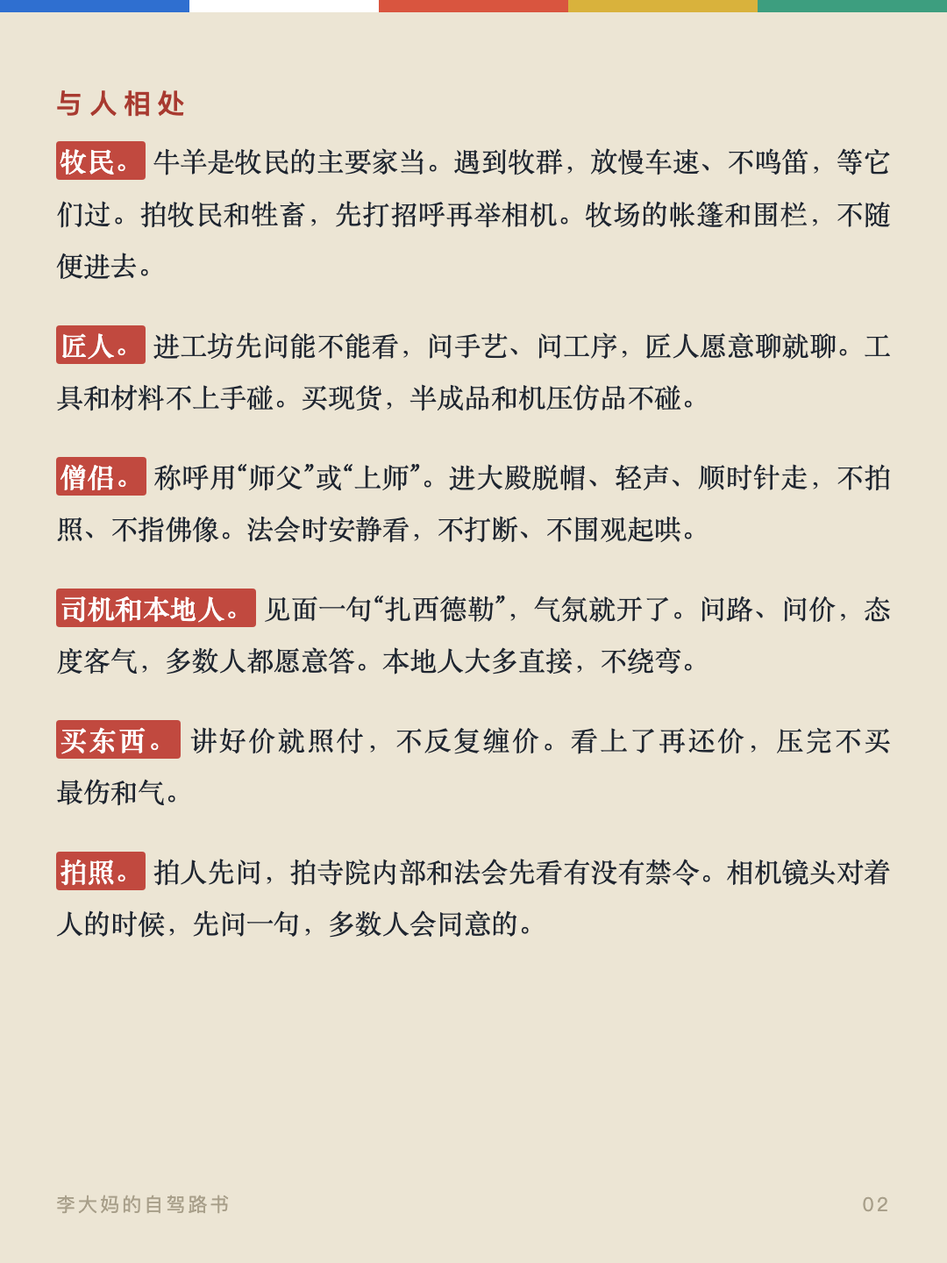
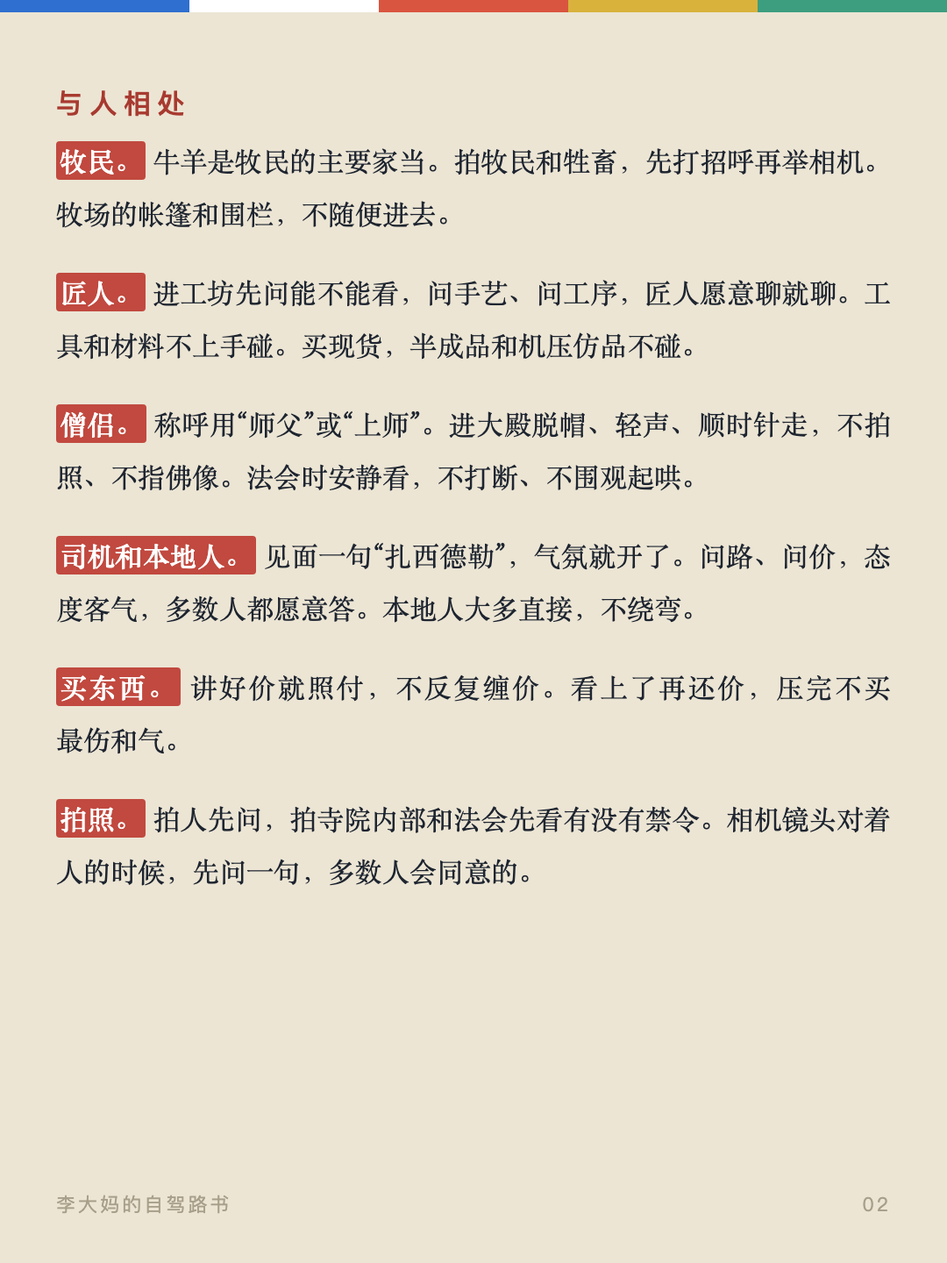
删财物句；牦牛羊让路做法并入驾驶学，牧民块去重

diff --git a/cards.html b/cards.html
@@ -125,7 +125,7 @@
 
 <div class="card" id="card1"><div class="flag" aria-hidden="true"><span style="background:var(--flag-blue)"></span><span style="background:var(--flag-white)"></span><span style="background:var(--flag-red)"></span><span style="background:var(--flag-yellow)"></span><span style="background:var(--flag-green)"></span></div><div class="card__inner"><div class="card__kicker">李大妈的自驾路书</div><h1><strong>川西自驾行前笔记</strong></h1><p class="card__intro">川西自驾是一门功课：海拔怎么分层、山河怎么走向、车怎么开山路、信仰怎么分辨、手艺在哪儿、房子为什么长这样。</p><p class="card__meta">我习惯在行前把零碎信息整理成笔记，当作出行线索。笔记更新于2026年8月28日。天气、封路、营业时间等信息随季节变化，出发前应再次查询官方信息。</p><h2>开篇　七章速览</h2><ul class="card__keys"><li><span>海拔决定秩序</span><strong>一　高原的秩序</strong></li> <li><span>山河决定地图</span><strong>二　山河的地图</strong></li> <li><span>车是腿，慢是快</span><strong>三　路上的驾驶学</strong></li> <li><span>认得前兆，知道方向</span><strong>四　险情的应对</strong></li> <li><span>看墙色分辨教派</span><strong>五　信仰的世界</strong></li> <li><span>手艺是还在运转的产业</span><strong>六　手艺的文明</strong></li> <li><span>材料决定房子</span><strong>七　建筑的方言</strong></li></ul><div class="card__foot"><span></span><span class="foot-flag" aria-hidden="true"><span style="background:var(--flag-blue)"></span><span style="background:var(--flag-white)"></span><span style="background:var(--flag-red)"></span><span style="background:var(--flag-yellow)"></span><span style="background:var(--flag-green)"></span></span><span>01</span></div></div></div>
 
-<div class="card" id="card2"><div class="flag" aria-hidden="true"><span style="background:var(--flag-blue)"></span><span style="background:var(--flag-white)"></span><span style="background:var(--flag-red)"></span><span style="background:var(--flag-yellow)"></span><span style="background:var(--flag-green)"></span></div><div class="card__inner"><h3>与人相处</h3><p><strong>牧民。</strong> 牛羊是牧民的主要家当。遇到牧群，放慢车速、不鸣笛，等它们过。拍牧民和牲畜，先打招呼再举相机。牧场的帐篷和围栏，不随便进去。</p><p><strong>匠人。</strong> 进工坊先问能不能看，问手艺、问工序，匠人愿意聊就聊。工具和材料不上手碰。买现货，半成品和机压仿品不碰。</p><p><strong>僧侣。</strong> 称呼用“师父”或“上师”。进大殿脱帽、轻声、顺时针走，不拍照、不指佛像。法会时安静看，不打断、不围观起哄。</p><p><strong>司机和本地人。</strong> 见面一句“扎西德勒”，气氛就开了。问路、问价，态度客气，多数人都愿意答。本地人大多直接，不绕弯。</p><p><strong>买东西。</strong> 讲好价就照付，不反复缠价。看上了再还价，压完不买<span class="nowrap">最伤和气。</span></p><p><strong>拍照。</strong> 拍人先问，拍寺院内部和法会先看有没有禁令。相机镜头对着人的时候，先问一句，多数人会同意的。</p><div class="card__foot"><span>李大妈的自驾路书</span><span>02</span></div></div></div>
+<div class="card" id="card2"><div class="flag" aria-hidden="true"><span style="background:var(--flag-blue)"></span><span style="background:var(--flag-white)"></span><span style="background:var(--flag-red)"></span><span style="background:var(--flag-yellow)"></span><span style="background:var(--flag-green)"></span></div><div class="card__inner"><h3>与人相处</h3><p><strong>牧民。</strong> 牛羊是牧民的主要家当。拍牧民和牲畜，先打招呼再举相机。牧场的帐篷和围栏，不随便进去。</p><p><strong>匠人。</strong> 进工坊先问能不能看，问手艺、问工序，匠人愿意聊就聊。工具和材料不上手碰。买现货，半成品和机压仿品不碰。</p><p><strong>僧侣。</strong> 称呼用“师父”或“上师”。进大殿脱帽、轻声、顺时针走，不拍照、不指佛像。法会时安静看，不打断、不围观起哄。</p><p><strong>司机和本地人。</strong> 见面一句“扎西德勒”，气氛就开了。问路、问价，态度客气，多数人都愿意答。本地人大多直接，不绕弯。</p><p><strong>买东西。</strong> 讲好价就照付，不反复缠价。看上了再还价，压完不买<span class="nowrap">最伤和气。</span></p><p><strong>拍照。</strong> 拍人先问，拍寺院内部和法会先看有没有禁令。相机镜头对着人的时候，先问一句，多数人会同意的。</p><div class="card__foot"><span>李大妈的自驾路书</span><span>02</span></div></div></div>
 
 <div class="card" id="card3"><div class="flag" aria-hidden="true"><span style="background:var(--flag-blue)"></span><span style="background:var(--flag-white)"></span><span style="background:var(--flag-red)"></span><span style="background:var(--flag-yellow)"></span><span style="background:var(--flag-green)"></span></div><div class="card__inner"><h2>高原的秩序</h2><p class="card__lead">海拔决定秩序。</p><p>进川西先对海拔有数。<strong>3000米是一道门槛</strong>，多数人的高反从这里开始。行程按海拔安排，不按景点安排：一天的路程控制在两三小时山路，下午留出空当看天，天气不对就提前收车。景点不会消失，路况和天气才是当天的变量。</p><p>窗口期。<strong>5到6月、9到10月中是全年最好走的时段</strong>。雨季6到8月以夜雨为主，白天多数能通行。冬季也能走，但救援半径长，一台车陷在无人垭口，代价远超省下的时间。</p><p>防高反。从低到高慢慢爬，头两天不在3500米以上过夜。典型信号是头痛、睡不着、没胃口，多数人两三天能适应。乙酰唑胺遵医嘱提前服用；头痛影响休息时，饭后服用布洛芬，多喝水。红景天不能降低高反发生率，只缓解症状。高原低血糖常见，头晕乏力冲杯糖水就能缓解。高原上血氧比平原低是常态，<strong>血氧掉到85%以下、人也不舒服的话，就往下撤</strong>，按需就医。</p><p>补给认准县城。<strong>进县城加满油</strong>，一离开县城就默认补给消失，当天去就得当天回，不在荒野过夜。离线地图出发前下好，<strong>自救物资备足</strong>。冬季自驾，车上常备防滑链。</p><div class="card__foot"><span>李大妈的自驾路书</span><span>03</span></div></div></div>
 
@@ -133,11 +133,11 @@
 
 <div class="card" id="card5"><div class="flag" aria-hidden="true"><span style="background:var(--flag-blue)"></span><span style="background:var(--flag-white)"></span><span style="background:var(--flag-red)"></span><span style="background:var(--flag-yellow)"></span><span style="background:var(--flag-green)"></span></div><div class="card__inner"><p>川西地震多，因为它在鲜水河断裂带上。这条断裂带从中部纵贯，历史上强震不断。对旅行者，最实在的是<strong>路况随时可能因塌方管制</strong>；很多陡崖和河谷的走向，就是断裂带运动的痕迹。</p><p>植被随海拔分层，从山谷到垭口一路变化。2500米以下是针阔混交林；2500到3500米是云杉冷杉的针叶林，高山杜鹃夹在林里；3500到4500米是高山灌丛和高山草甸，冬虫夏草、雪茶都长在这一层；4500米以上是流石滩，雪莲贴着碎石长。<strong>同一条路翻几座山，一天就能跨过四个<span class="nowrap">植被带</span>，换到别处得开几千公里。</strong></p><p>吃的东西也按海拔分布。青稞是高原的当家作物，炒熟磨成糌粑，拌上酥油茶捏成团，是藏人的日常主食；酥油茶用砖茶和酥油熬，热量高、解渴御寒，当地有<strong>“宁可三日无肉，不可一日无茶”</strong>的说法。牦牛在海拔3500米以上放养，肉干、火锅、炖汤都常见；血肠是待客的上等菜，牛血或羊血和肉丁灌进小肠煮熟。松茸这类菌子长在森林里，集中在金沙江、雅砻江、大渡河上中游的高山峡谷，夏秋雨后出得多，炖鸡、涮锅都常吃。这些不用刻意找，路边饭馆的菜单上就有。</p><div class="card__foot"><span>李大妈的自驾路书</span><span>05</span></div></div></div>
 
-<div class="card" id="card6"><div class="flag" aria-hidden="true"><span style="background:var(--flag-blue)"></span><span style="background:var(--flag-white)"></span><span style="background:var(--flag-red)"></span><span style="background:var(--flag-yellow)"></span><span style="background:var(--flag-green)"></span></div><div class="card__inner"><h2>路上的驾驶学</h2><p class="card__lead">车是腿，慢是快。一半技术，一半克制。</p><p>川西路上要让的，是大货车和牧民的牛羊。弯道不超车。<strong>让路是这条路的默认礼节</strong>。</p><p>高原开车有两个隐性风险。长下坡一直踩刹车会热衰减，要用低挡位和发动机制动；超车动力衰减，要留出比平原长得多的余量。冰雪路面上，四驱也一样打滑，<strong>慢才是安全</strong>。</p><p>手机信号在县城和景区都有，支线基本没有。<strong>离开主路之前，给家人或朋友发一个位置</strong>，让他们知道人在哪。进了支线，信号就断了，按没信号准备。应急手段：中国电信有手机直连卫星业务，华为、小米等部分手机开通后，不换卡不换号就能在无信号区通话、发定位；雅安318自驾大本营有全国首个城市卫星服务站，可以租天通卫星设备，按天十元左右。</p><h3>加油</h3><p>加油站集中在县城和几个大镇，见油就加。认准中石油、中石化，避开私人黑站。理塘到稻城之间约200公里没有加油站，G317甘孜到德格一带靠马尼干戈这类节点补给。<strong>油箱过半就找下一个县城</strong>。</p><div class="card__foot"><span>李大妈的自驾路书</span><span>06</span></div></div></div>
+<div class="card" id="card6"><div class="flag" aria-hidden="true"><span style="background:var(--flag-blue)"></span><span style="background:var(--flag-white)"></span><span style="background:var(--flag-red)"></span><span style="background:var(--flag-yellow)"></span><span style="background:var(--flag-green)"></span></div><div class="card__inner"><h2>路上的驾驶学</h2><p class="card__lead">车是腿，慢是快。一半技术，一半克制。</p><p>川西路上要让的，是大货车和牧民的牛羊。弯道不超车。遇牦牛、羊挡路，减速停车，不鸣笛、不闪灯，等它们自己走开。<strong>让路是这条路的默认礼节</strong>。</p><p>高原开车有两个隐性风险。长下坡一直踩刹车会热衰减，要用低挡位和发动机制动；超车动力衰减，要留出比平原长得多的余量。冰雪路面上，四驱也一样打滑，<strong>慢才是安全</strong>。</p><p>手机信号在县城和景区都有，支线基本没有。<strong>离开主路之前，给家人或朋友发一个位置</strong>，让他们知道人在哪。进了支线，信号就断了，按没信号准备。应急手段：中国电信有手机直连卫星业务，华为、小米等部分手机开通后，不换卡不换号就能在无信号区通话、发定位；雅安318自驾大本营有全国首个城市卫星服务站，可以租天通卫星设备，按天十元左右。</p><h3>加油</h3><p>加油站集中在县城和几个大镇，见油就加。认准中石油、中石化，避开私人黑站。理塘到稻城之间约200公里没有加油站，G317甘孜到德格一带靠马尼干戈这类节点补给。<strong>油箱过半就找下一个县城</strong>。</p><div class="card__foot"><span>李大妈的自驾路书</span><span>06</span></div></div></div>
 
 <div class="card" id="card7"><div class="flag" aria-hidden="true"><span style="background:var(--flag-blue)"></span><span style="background:var(--flag-white)"></span><span style="background:var(--flag-red)"></span><span style="background:var(--flag-yellow)"></span><span style="background:var(--flag-green)"></span></div><div class="card__inner"><h3>充电</h3><p>川西这两年变化快。2025年6月甘孜州18个公路养护站和14个快充站投运，理塘到稻城段充电桩最大间距125公里；318沿线超300个充电桩，快充占七成以上。密度从东往西递减：成都到康定每30到50公里一个快充；康定、新都桥、雅江、理塘每80到150公里；理塘往稻城亚丁、新都桥往塔公八美每150到200公里。冷嘎措、格聂、若尔盖穿越段还是盲区。实际体验要打折：约一成五的桩故障或被燃油车占位，节假日热门站排队可能超一小时。高原续航缩水约三四成。<strong>电量低于三成就找桩</strong>，进景区前在县城充到八成以上。查桩用特来电、国网e充电、星星充电的App，或高德的新能源模式。</p><h3>封路信息</h3><p>两类封路最常见：汛期6到8月塌方落石，抢修期间半幅放行或管制；冬季11月到次年3、4月冬管，比如九绵高速夜间20点到次日8点禁行，夹金山段整个冬天双向禁行，理小路冬天全段禁行。<strong>G317马尔康到观音桥段，自2025年11月红旗特大桥垮塌后一直中断</strong>，绕行走壤塘、阿坝、红原方向，约多3小时；官方便道工程预计2026年9月底至10月初通车。官方渠道：阿坝州政府官网阿坝路况专栏、四川发布和成都发布公众号、高速救援12122、报警96122。<strong>官方路况和高德，出发当天交叉核对</strong>。</p><div class="card__foot"><span>李大妈的自驾路书</span><span>07</span></div></div></div>
 
-<div class="card" id="card8"><div class="flag" aria-hidden="true"><span style="background:var(--flag-blue)"></span><span style="background:var(--flag-white)"></span><span style="background:var(--flag-red)"></span><span style="background:var(--flag-yellow)"></span><span style="background:var(--flag-green)"></span></div><div class="card__inner"><h2>险情的应对</h2><p class="card__lead">认得出前兆，才躲得开险情。</p><h3>路上的险</h3><p>川西的雨集中在6到8月，<strong>暴雨</strong>后一两天不要进峡谷、溪沟。溪水突然变浑、暴涨，沟里传来轰隆声，都是前兆，撤到两侧山坡高处，不要顺沟往下。路上遇<strong>塌方</strong>，停车观察，掉头绕行，不要硬冲。大雪后不要急着进山，遇<strong>雪崩</strong>往两侧跑，找岩石或大树躲身后。行车遇<strong>地震</strong>，减速靠边停到开阔地，避开山崖、桥梁、隧道口和电线杆，停稳后待在车里。震后余震、落石都可能，不要急着走，先观察山体动静。</p><h3>山野的险</h3><p>夏季午后，高海拔垭口常有雷雨，垭口和山顶不要当避雷处，下午早点下山。湿冷加大风，夏天也会失温，包里带件干衣服，淋湿就换干净。雨后林间、溪边、草丛，<strong>蛇虫</strong>多，当心脚下，扎紧裤脚防蚂蟥，被咬撒盐让它松口。毒蛇雨后初晴出没，遇蛇慢慢退开，不跑不追赶，被咬记下蛇的样子，尽快就医。<strong>野狗</strong>不招惹，遇<strong>熊</strong>绕开。财物不外露，不轻信搭讪。记住<strong>无痕山野</strong>，不留下痕迹，也不惊扰草木和飞鸟走兽。</p><div class="card__foot"><span>李大妈的自驾路书</span><span>08</span></div></div></div>
+<div class="card" id="card8"><div class="flag" aria-hidden="true"><span style="background:var(--flag-blue)"></span><span style="background:var(--flag-white)"></span><span style="background:var(--flag-red)"></span><span style="background:var(--flag-yellow)"></span><span style="background:var(--flag-green)"></span></div><div class="card__inner"><h2>险情的应对</h2><p class="card__lead">认得出前兆，才躲得开险情。</p><h3>路上的险</h3><p>川西的雨集中在6到8月，<strong>暴雨</strong>后一两天不要进峡谷、溪沟。溪水突然变浑、暴涨，沟里传来轰隆声，都是前兆，撤到两侧山坡高处，不要顺沟往下。路上遇<strong>塌方</strong>，停车观察，掉头绕行，不要硬冲。大雪后不要急着进山，遇<strong>雪崩</strong>往两侧跑，找岩石或大树躲身后。行车遇<strong>地震</strong>，减速靠边停到开阔地，避开山崖、桥梁、隧道口和电线杆，停稳后待在车里。震后余震、落石都可能，不要急着走，先观察山体动静。</p><h3>山野的险</h3><p>夏季午后，高海拔垭口常有雷雨，垭口和山顶不要当避雷处，下午早点下山。湿冷加大风，夏天也会失温，包里带件干衣服，淋湿就换干净。雨后林间、溪边、草丛，<strong>蛇虫</strong>多，当心脚下，扎紧裤脚防蚂蟥，被咬撒盐让它松口。毒蛇雨后初晴出没，遇蛇慢慢退开，不跑不追赶，被咬记下蛇的样子，尽快就医。<strong>野狗</strong>不招惹，遇<strong>熊</strong>绕开。记住<strong>无痕山野</strong>，不留下痕迹，也不惊扰草木和飞鸟走兽。</p><div class="card__foot"><span>李大妈的自驾路书</span><span>08</span></div></div></div>
 
 <div class="card" id="card9"><div class="flag" aria-hidden="true"><span style="background:var(--flag-blue)"></span><span style="background:var(--flag-white)"></span><span style="background:var(--flag-red)"></span><span style="background:var(--flag-yellow)"></span><span style="background:var(--flag-green)"></span></div><div class="card__inner"><h2>信仰的世界</h2><p class="card__lead">看墙色，分辨教派。</p><p>川西在藏文化版图里的位置。藏区习惯分成三大块：拉萨一带的卫藏，青海甘肃的安多，还有以甘孜、昌都为核心的康巴。康巴人性格外放，“康巴汉子”的名声就是这么来的。和卫藏、安多不同，川西<strong>没有哪个教派一家独大</strong>。甘孜州登记的寺院有515座，涵盖五大教派，其中宁玛、格鲁、萨迦、噶举属藏传佛教，苯教是本土宗教。</p><p>分辨教派，看寺庙外墙的颜色。宁玛派叫<strong>红教</strong>，是最古老的派别，多随牧区分布。萨迦派叫<strong>花教</strong>，寺墙刷红、白、黑三色条纹，据说是文殊、观音、金刚手三位菩萨的象征。噶举派叫<strong>白教</strong>，叫法来自早期僧人穿白衣的传承，四川藏区的祖寺是德格的八邦寺。格鲁派叫<strong>黄教</strong>，传入最晚，理塘的长青春科尔寺是康区最早的格鲁派寺院。还有苯教，比藏传佛教更古老的本地信仰，没有对应的颜色称呼，它在川西的地位比在发源地西藏还高，阿坝县的郎依寺，是国内外现存规模最大的苯教寺院，阿坝金川的雍忠拉顶寺一带被称为“第二象雄”。</p><p>最特别的是德格。历代德格土司推行“不分教派、一律扶持”的政策，硬是把五大教派全留在自家地盘上，这在藏区很少见，<strong>德格也因此成了藏文化的三大中心之一</strong>。</p><div class="card__foot"><span>李大妈的自驾路书</span><span>09</span></div></div></div>
 

diff --git a/index.html b/index.html
@@ -211,7 +211,7 @@
         <li><span>材料决定房子</span><strong>七　建筑的方言</strong></li>
       </ul>
       <h3>与人相处</h3>
-      <p><strong>牧民。</strong> 牛羊是牧民的主要家当。遇到牧群，放慢车速、不鸣笛，等它们过。拍牧民和牲畜，先打招呼再举相机。牧场的帐篷和围栏，不随便进去。</p>
+      <p><strong>牧民。</strong> 牛羊是牧民的主要家当。拍牧民和牲畜，先打招呼再举相机。牧场的帐篷和围栏，不随便进去。</p>
       <p><strong>匠人。</strong> 进工坊先问能不能看，问手艺、问工序，匠人愿意聊就聊。工具和材料不上手碰。买现货，半成品和机压仿品不碰。</p>
       <p><strong>僧侣。</strong> 称呼用“师父”或“上师”。进大殿脱帽、轻声、顺时针走，不拍照、不指佛像。法会时安静看，不打断、不围观起哄。</p>
       <p><strong>司机和本地人。</strong> 见面一句“扎西德勒”，气氛就开了。问路、问价，态度客气，多数人都愿意答。本地人大多直接，不绕弯。</p>
@@ -246,7 +246,7 @@
     <section class="part" id="driving">
       <div class="part__head"><span class="part__no" aria-hidden="true">三</span><h2>路上的驾驶学</h2></div>
       <p class="part__lead">车是腿，慢是快。一半技术，一半克制。</p>
-      <p>川西路上要让的，是大货车和牧民的牛羊。弯道不超车。<strong>让路是这条路的默认礼节</strong>。</p>
+      <p>川西路上要让的，是大货车和牧民的牛羊。弯道不超车。遇牦牛、羊挡路，减速停车，不鸣笛、不闪灯，等它们自己走开。<strong>让路是这条路的默认礼节</strong>。</p>
       <p>高原开车有两个隐性风险。长下坡一直踩刹车会热衰减，要用低挡位和发动机制动；超车动力衰减，要留出比平原长得多的余量。冰雪路面上，四驱也一样打滑，<strong>慢才是安全</strong>。</p>
       <p>手机信号在县城和景区都有，支线基本没有。<strong>离开主路之前，给家人或朋友发一个位置</strong>，让他们知道人在哪。进了支线，信号就断了，按没信号准备。应急手段：中国电信有手机直连卫星业务，华为、小米等部分手机开通后，不换卡不换号就能在无信号区通话、发定位；雅安318自驾大本营有全国首个城市卫星服务站，可以租天通卫星设备，按天十元左右。</p>
 
@@ -269,7 +269,7 @@
       <p>川西的雨集中在6到8月，<strong>暴雨</strong>后一两天不要进峡谷、溪沟。溪水突然变浑、暴涨，沟里传来轰隆声，都是前兆，撤到两侧山坡高处，不要顺沟往下。路上遇<strong>塌方</strong>，停车观察，掉头绕行，不要硬冲。大雪后不要急着进山，遇<strong>雪崩</strong>往两侧跑，找岩石或大树躲身后。行车遇<strong>地震</strong>，减速靠边停到开阔地，避开山崖、桥梁、隧道口和电线杆，停稳后待在车里。震后余震、落石都可能，不要急着走，先观察山体动静。</p>
 
       <h3>山野的险</h3>
-      <p>夏季午后，高海拔垭口常有雷雨，垭口和山顶不要当避雷处，下午早点下山。湿冷加大风，夏天也会失温，包里带件干衣服，淋湿就换干净。雨后林间、溪边、草丛，<strong>蛇虫</strong>多，当心脚下，扎紧裤脚防蚂蟥，被咬撒盐让它松口。毒蛇雨后初晴出没，遇蛇慢慢退开，不跑不追赶，被咬记下蛇的样子，尽快就医。<strong>野狗</strong>不招惹，遇<strong>熊</strong>绕开。财物不外露，不轻信搭讪。记住<strong>无痕山野</strong>，不留下痕迹，也不惊扰草木和飞鸟走兽。</p>
+      <p>夏季午后，高海拔垭口常有雷雨，垭口和山顶不要当避雷处，下午早点下山。湿冷加大风，夏天也会失温，包里带件干衣服，淋湿就换干净。雨后林间、溪边、草丛，<strong>蛇虫</strong>多，当心脚下，扎紧裤脚防蚂蟥，被咬撒盐让它松口。毒蛇雨后初晴出没，遇蛇慢慢退开，不跑不追赶，被咬记下蛇的样子，尽快就医。<strong>野狗</strong>不招惹，遇<strong>熊</strong>绕开。记住<strong>无痕山野</strong>，不留下痕迹，也不惊扰草木和飞鸟走兽。</p>
     </section>
 
     <!-- 五、信仰的世界 -->

diff --git a/gen_cards.py b/gen_cards.py
@@ -26,7 +26,7 @@ PAGE1 = [
 
 BODY_STREAM = [
   ('h3', '与人相处'),
-  ('p', '<strong>牧民。</strong> 牛羊是牧民的主要家当。遇到牧群，放慢车速、不鸣笛，等它们过。拍牧民和牲畜，先打招呼再举相机。牧场的帐篷和围栏，不随便进去。'),
+  ('p', '<strong>牧民。</strong> 牛羊是牧民的主要家当。拍牧民和牲畜，先打招呼再举相机。牧场的帐篷和围栏，不随便进去。'),
   ('p', '<strong>匠人。</strong> 进工坊先问能不能看，问手艺、问工序，匠人愿意聊就聊。工具和材料不上手碰。买现货，半成品和机压仿品不碰。'),
   ('p', '<strong>僧侣。</strong> 称呼用“师父”或“上师”。进大殿脱帽、轻声、顺时针走，不拍照、不指佛像。法会时安静看，不打断、不围观起哄。'),
   ('p', '<strong>司机和本地人。</strong> 见面一句“扎西德勒”，气氛就开了。问路、问价，态度客气，多数人都愿意答。本地人大多直接，不绕弯。'),
@@ -49,7 +49,7 @@ BODY_STREAM = [
   ('p', '吃的东西也按海拔分布。青稞是高原的当家作物，炒熟磨成糌粑，拌上酥油茶捏成团，是藏人的日常主食；酥油茶用砖茶和酥油熬，热量高、解渴御寒，当地有<strong>“宁可三日无肉，不可一日无茶”</strong>的说法。牦牛在海拔3500米以上放养，肉干、火锅、炖汤都常见；血肠是待客的上等菜，牛血或羊血和肉丁灌进小肠煮熟。松茸这类菌子长在森林里，集中在金沙江、雅砻江、大渡河上中游的高山峡谷，夏秋雨后出得多，炖鸡、涮锅都常吃。这些不用刻意找，路边饭馆的菜单上就有。'),
   ('h2', '路上的驾驶学'),
   ('lead', '车是腿，慢是快。一半技术，一半克制。'),
-  ('p', '川西路上要让的，是大货车和牧民的牛羊。弯道不超车。<strong>让路是这条路的默认礼节</strong>。'),
+  ('p', '川西路上要让的，是大货车和牧民的牛羊。弯道不超车。遇牦牛、羊挡路，减速停车，不鸣笛、不闪灯，等它们自己走开。<strong>让路是这条路的默认礼节</strong>。'),
   ('p', '高原开车有两个隐性风险。长下坡一直踩刹车会热衰减，要用低挡位和发动机制动；超车动力衰减，要留出比平原长得多的余量。冰雪路面上，四驱也一样打滑，<strong>慢才是安全</strong>。'),
   ('p', '手机信号在县城和景区都有，支线基本没有。<strong>离开主路之前，给家人或朋友发一个位置</strong>，让他们知道人在哪。进了支线，信号就断了，按没信号准备。应急手段：中国电信有手机直连卫星业务，华为、小米等部分手机开通后，不换卡不换号就能在无信号区通话、发定位；雅安318自驾大本营有全国首个城市卫星服务站，可以租天通卫星设备，按天十元左右。'),
   ('h3', '加油'),
@@ -63,7 +63,7 @@ BODY_STREAM = [
   ('h3', '路上的险'),
   ('p', '川西的雨集中在6到8月，<strong>暴雨</strong>后一两天不要进峡谷、溪沟。溪水突然变浑、暴涨，沟里传来轰隆声，都是前兆，撤到两侧山坡高处，不要顺沟往下。路上遇<strong>塌方</strong>，停车观察，掉头绕行，不要硬冲。大雪后不要急着进山，遇<strong>雪崩</strong>往两侧跑，找岩石或大树躲身后。行车遇<strong>地震</strong>，减速靠边停到开阔地，避开山崖、桥梁、隧道口和电线杆，停稳后待在车里。震后余震、落石都可能，不要急着走，先观察山体动静。'),
   ('h3', '山野的险'),
-  ('p', '夏季午后，高海拔垭口常有雷雨，垭口和山顶不要当避雷处，下午早点下山。湿冷加大风，夏天也会失温，包里带件干衣服，淋湿就换干净。雨后林间、溪边、草丛，<strong>蛇虫</strong>多，当心脚下，扎紧裤脚防蚂蟥，被咬撒盐让它松口。毒蛇雨后初晴出没，遇蛇慢慢退开，不跑不追赶，被咬记下蛇的样子，尽快就医。<strong>野狗</strong>不招惹，遇<strong>熊</strong>绕开。财物不外露，不轻信搭讪。记住<strong>无痕山野</strong>，不留下痕迹，也不惊扰草木和飞鸟走兽。'),
+  ('p', '夏季午后，高海拔垭口常有雷雨，垭口和山顶不要当避雷处，下午早点下山。湿冷加大风，夏天也会失温，包里带件干衣服，淋湿就换干净。雨后林间、溪边、草丛，<strong>蛇虫</strong>多，当心脚下，扎紧裤脚防蚂蟥，被咬撒盐让它松口。毒蛇雨后初晴出没，遇蛇慢慢退开，不跑不追赶，被咬记下蛇的样子，尽快就医。<strong>野狗</strong>不招惹，遇<strong>熊</strong>绕开。记住<strong>无痕山野</strong>，不留下痕迹，也不惊扰草木和飞鸟走兽。'),
   ('h2', '信仰的世界'),
   ('lead', '看墙色，分辨教派。'),
   ('p', '川西在藏文化版图里的位置。藏区习惯分成三大块：拉萨一带的卫藏，青海甘肃的安多，还有以甘孜、昌都为核心的康巴。康巴人性格外放，“康巴汉子”的名声就是这么来的。和卫藏、安多不同，川西<strong>没有哪个教派一家独大</strong>。甘孜州登记的寺院有515座，涵盖五大教派，其中宁玛、格鲁、萨迦、噶举属藏传佛教，苯教是本土宗教。'),

diff --git a/worklog-2026-08-28.md b/worklog-2026-08-28.md
@@ -92,3 +92,9 @@
 
 反色 strong 保持 8 类词：暴雨、塌方、雪崩、地震（路上险）；蛇虫、野狗、熊、无痕山野（山野险）。
 分页：H=1340，17 页不变。渲染实测无溢出（最小间隙31px）、无孤字（仅「加油」「充电」两字标题误报）。重截 17 张 PNG。
+
+### 4.9 财物句删除 + 牦牛羊让路移入驾驶学
+- 「财物不外露，不轻信搭讪」从山野的险删除（用户判定：防人不是山野自然险；选项确认删掉）
+- 牧民块（与人相处）删「遇到牧群，放慢车速、不鸣笛，等它们过」→ 让路做法并入驾驶学，避免两处重复
+- 驾驶学第1段扩展：「遇牦牛、羊挡路，减速停车，不鸣笛、不闪灯，等它们自己走开」，「让路是这条路的默认礼节」收尾
+分页：H=1340，17 页不变。无溢出、无孤字。重截 17 张 PNG。
